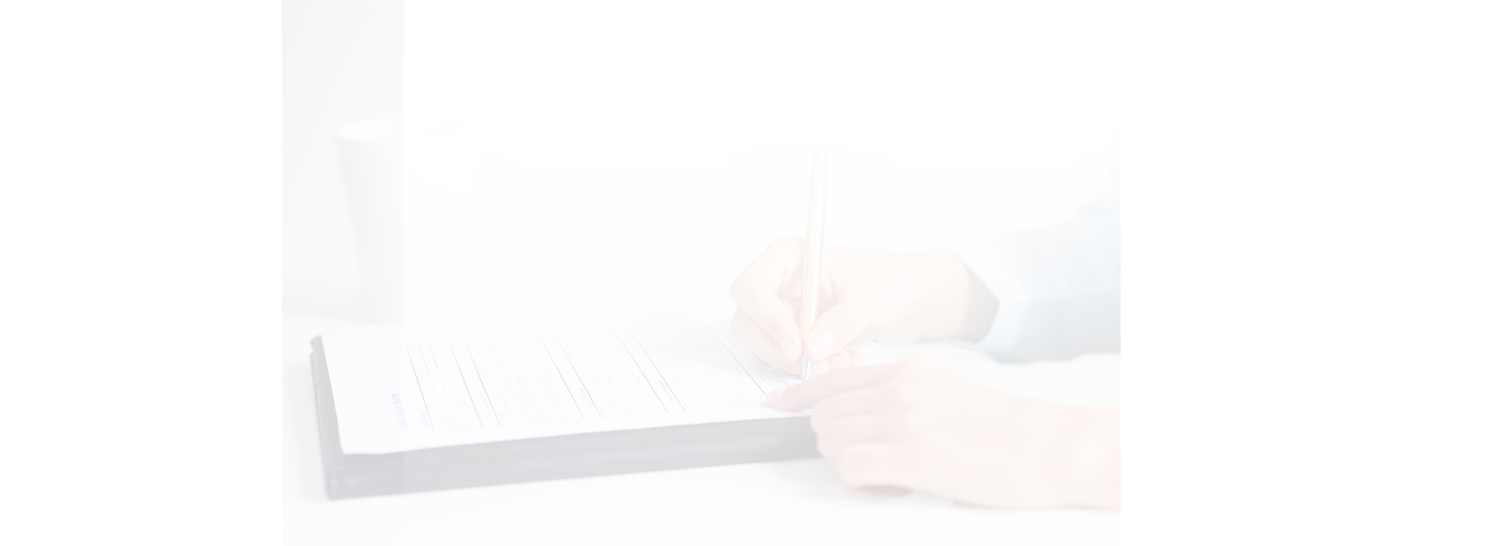
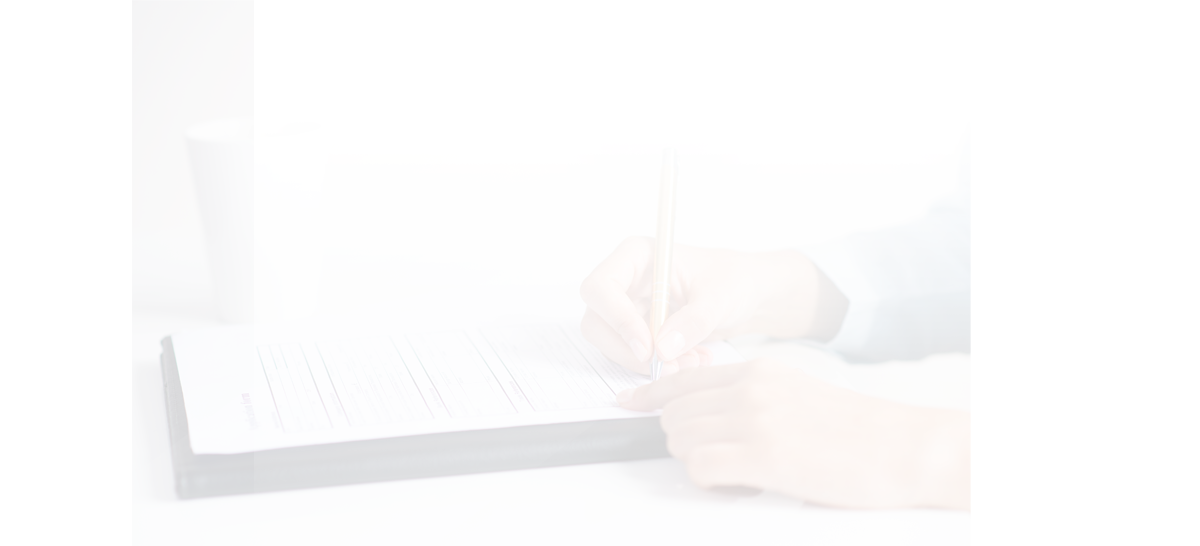
mohamed0507

diff --git a/src/app/login/login.page.scss b/src/app/login/login.page.scss
@@ -1,20 +1,24 @@
-.login-bg{position: absolute;left:0;right:0;top:0;bottom: 0;/* Permalink - use to edit and share this gradient: https://colorzilla.com/gradient-editor/#588ad6+0,4278cb+100 */
-background: rgb(88,138,214);background: -moz-linear-gradient(top,  rgba(88,138,214,1) 0%, rgba(66,120,203,1) 100%); /* FF3.6-15 */
-background: -webkit-linear-gradient(top,  rgba(88,138,214,1) 0%,rgba(66,120,203,1) 100%); /* Chrome10-25,Safari5.1-6 */
-background: linear-gradient(to bottom,  rgba(88,138,214,1) 0%,rgba(66,120,203,1) 100%); /* W3C, IE10+, FF16+, Chrome26+, Opera12+, Safari7+ */
-filter: progid:DXImageTransform.Microsoft.gradient( startColorstr='#588ad6', endColorstr='#4278cb',GradientType=0 ); /* IE6-9 */
-}
-.login-bg::after{content:"";position:absolute;z-index:1;background: url('../../assets/imgs/top-bar.png') no-repeat top center;top:0;bottom:0;left:0;right:0;background-size: auto 50%;}
-.login-bg::before{content:"";position:absolute;z-index:1;background: url('../../assets/imgs/bottom-bar.png') no-repeat bottom center;top:0;bottom:0;left:0;right:0;background-size: auto 50%;
-}
+.login-bg{/*min-height: 100vh; Permalink - use to edit and share this gradient: https://colorzilla.com/gradient-editor/#588ad6+0,4278cb+100
+background: rgb(88,138,214);background: -moz-linear-gradient(top,  rgba(88,138,214,1) 0%, rgba(66,120,203,1) 100%);background: -webkit-linear-gradient(top,  rgba(88,138,214,1) 0%,rgba(66,120,203,1) 100%);
+background: linear-gradient(to bottom,  rgba(88,138,214,1) 0%,rgba(66,120,203,1) 100%);filter: progid:DXImageTransform.Microsoft.gradient( startColorstr='#588ad6', endColorstr='#4278cb',GradientType=0 ) */}
+
+.login-bg{min-height: 100vh;background: #4278cb url('../../assets/imgs/bottom-bg.png') no-repeat bottom center;background-size: 800px auto;}
+.login-bg::after{content:"";position:absolute;z-index:1;background: url(../../assets/imgs/top-bar1.png) no-repeat top -100px center;top: 0;bottom: 0;left: 0;right: 0;background-size: 800px auto;}
+// .login-bg::before{content:"";position:absolute;z-index:1;background: url('../../assets/imgs/bottom-bar.png') no-repeat bottom center;top:0;bottom:0;left:0;right:0;background-size: auto 50%; }
 .login-container {position: relative;padding:5vw;z-index: 2;}
-.logoSection {position: relative;margin: 4px -8px 0;text-align: center;-webkit-animation-duration: 1s;animation-duration: 1s;-webkit-animation-fill-mode: both;animation-fill-mode: both;-webkit-animation-name: zoomIn;animation-name: zoomIn;display: block;
-text-align: center;padding-left: 0;} 
-.logoSection img{display: block;width: 120px;margin: 9vw auto;}
+.logoSection {position: relative;margin: 4px -8px 20px;text-align: center;-webkit-animation-duration: 1s;animation-duration: 1s;-webkit-animation-fill-mode: both;animation-fill-mode: both;-webkit-animation-name: zoomIn;animation-name: zoomIn;display: block;
+text-align: center;padding-top: 200px;} 
+.logoSection img{display: block;width: 120px;margin: 5vw auto;}
 
-
-.sologon-1{color: #5fd8d1;font-size: 1.8rem;display: block;}
-.sologon-2{color: #fff;display: block;font-size: .9rem}
+.powered-by {
+    position: fixed;
+    bottom: 10px;
+    right: 10px;
+    left:10px;
+    font-size: 90%;
+}
+.sologon-1{color: #5fd8d1;font-size: 1.6rem;display: block;}
+.sologon-2{color: #fff;display: block;font-size: .8rem}
 ion-content,app-login{background-color: rgba(66,120,203,1)!important}
 ion-list{background-color: transparent!important}
 ion-item{padding: 0 16px;margin: 16px 0 0 0;border-radius: 8px;background: #fff;}

diff --git a/src/app/vacation-request/new/new-vacation-request.page.html b/src/app/vacation-request/new/new-vacation-request.page.html
@@ -28,22 +28,22 @@
               </ion-select>
             </ion-item>
             <ion-item class="border bg-white">
-                <ion-label position="">{{ 'app.vacationRequest.fromDate' | translate }}</ion-label>
+                <ion-label position="floating">{{ 'app.vacationRequest.fromDate' | translate }}</ion-label>
                 <ion-datetime displayFormat="YYYY-MM-DD" pickerFormat="DD MMMM YYYY" 
                   (ionChange)="getVacationTypeBalance()" formControlName="FromDate"></ion-datetime>
               </ion-item>
               <ion-item class="border bg-white">
-                  <ion-label position="">{{ 'app.vacationRequest.toDate' | translate }}</ion-label>
+                  <ion-label position="floating">{{ 'app.vacationRequest.toDate' | translate }}</ion-label>
                   <ion-datetime displayFormat="YYYY-MM-DD" pickerFormat="DD MMMM YYYY"
                     (ionChange)="getVacationTypeBalance()" formControlName="ToDate"></ion-datetime>
                 </ion-item>
                 <ion-item class="border bg-white">
-                    <ion-label position="">{{ 'app.vacationRequest.excludeWeekend' | translate }}</ion-label>
+                    <ion-label position="floating">{{ 'app.vacationRequest.excludeWeekend' | translate }}</ion-label>
                     <ion-checkbox formControlName="ExcludeWeekend" (ionChange)="calculateVacationDays()" [checked]="false">
                     </ion-checkbox>
                   </ion-item>
                   <ion-item class="border bg-white">
-                      <ion-label position="">{{ 'app.vacationRequest.vacationDays' | translate }}</ion-label>
+                      <ion-label position="floating">{{ 'app.vacationRequest.vacationDays' | translate }}</ion-label>
                       <ion-input type="text" formControlName="VacationDays"></ion-input>
                     </ion-item>
                     <ion-item class="border bg-white">
@@ -51,7 +51,7 @@
                         <ion-input type="text" formControlName="Balance" disabled></ion-input>
                       </ion-item>
                       <ion-item class="border bg-white">
-                          <ion-label position="">{{ 'app.vacationRequest.replacement' | translate }}</ion-label>
+                          <ion-label position="floating">{{ 'app.vacationRequest.replacement' | translate }}</ion-label>
                           <ionic-selectable formControlName="Replacement" itemValueField="EmployeeId" itemTextField="EmployeeName"
                             [items]="employees" [canSearch]="true" (onSearch)="searchEmployee($event)"
                             [placeholder]="'app.vacationRequest.selectReplacement' | translate">
@@ -62,7 +62,7 @@
                           </ionic-selectable>
                         </ion-item>
                         <ion-item class="border bg-white">
-                            <ion-label position="">{{ 'app.overtimeRequest.remarks' | translate }}</ion-label>
+                            <ion-label position="floating">{{ 'app.overtimeRequest.remarks' | translate }}</ion-label>
                             <ion-textarea type="text" formControlName="Remarks"></ion-textarea>
                           </ion-item>
                           <ion-button type="submit" expand="full" [disabled]="requestForm.invalid" class="btn-brand">Submit</ion-button>

diff --git a/src/app/vacation-request/search/search-vacation-requests.page.html b/src/app/vacation-request/search/search-vacation-requests.page.html
@@ -12,25 +12,25 @@
     </ion-toolbar>
 </ion-header>
 
-<ion-content>
+<ion-content class="vacation-requests">
     <ion-card>
         <ion-card-content *ngFor="let req of requests">
-          <ion-item>            
-              {{ 'app.vacationRequest.type' | translate }} : <span>{{req.VacationType.Name}}</span>
+          <ion-item class="vacation-requests-item">            
+            <ion-icon class="vacation-requests-icon" name="apps"></ion-icon>{{ 'app.vacationRequest.type' | translate }} : <span>{{req.VacationType.Name}}</span>
           </ion-item>
-          <ion-item>
-              {{ 'app.vacationRequest.fromDate' | translate }} : <span>{{req.FromDate}}</span>
+          <ion-item class="vacation-requests-item">
+              <ion-icon class="vacation-requests-item" name="calendar"></ion-icon>{{ 'app.vacationRequest.fromDate' | translate }} : <span>{{req.FromDate}}</span>
           </ion-item>      
-          <ion-item>
-              {{ 'app.vacationRequest.toDate' | translate }} : <span>{{req.ToDate}}</span>
+          <ion-item class="vacation-requests-item">
+              <ion-icon class="vacation-requests-item" name="calendar"></ion-icon>{{ 'app.vacationRequest.toDate' | translate }} : <span>{{req.ToDate}}</span>
           </ion-item> 
-          <ion-item>
-              {{ 'app.vacationRequest.vacationDays' | translate }} : <span>{{req.VacationDays}}</span>
+          <ion-item class="vacation-requests-item">
+              <ion-icon class="vacation-requests-item" name="clipboard"></ion-icon>{{ 'app.vacationRequest.vacationDays' | translate }} : <span>{{req.VacationDays}}</span>
           </ion-item>        
-          <ion-item>
+          <ion-item class="vacation-requests-item">
             <button ion-button  color="primary"  icon-start><ion-icon name="create"></ion-icon>Edit</button>
           </ion-item>
         </ion-card-content>
-    </ion-card>
+    </ion-card> 
 
 </ion-content>

diff --git a/src/app/login/login.page.html b/src/app/login/login.page.html
@@ -4,11 +4,11 @@
   </ion-toolbar>
 </ion-header -->
 
-<ion-content padding>
+<ion-content >
   <div class="login-bg">
     <div class="login-container">
       <div class="logoSection">
-        <img class="logo" src="assets/imgs/logo.png" />
+        <!-- <img class="logo" src="assets/imgs/logo.png" /> -->
 
 
         <ion-label class="sologon-1 text-bold">KIAN HRM SYSTEM</ion-label>
@@ -45,17 +45,19 @@
           <div class="error-box"
             *ngIf="authForm.controls['password'].hasError('required') && authForm.controls['password'].touched">
             {{ 'app.login.passwordRequired' | translate }}</div>
-          <ion-item>
+          <!-- <ion-item>
             <ion-label>{{ 'app.login.rememberMe' | translate }}</ion-label>
             <ion-checkbox [formControl]="authForm.controls['keepMeLogin']"></ion-checkbox>
-          </ion-item>
+          </ion-item> -->
 
           <div class="logindiv">
             <button class="btn-brand" type="submit" [disabled]="!authForm.valid" (click)="login()">Login</button>
           </div>
 
         </ion-list>
-        <ion-label class="d-block text-center"><a href="#" class="text-white">Forget Password ?</a></ion-label>
+        <!-- <ion-label class="d-block text-center"><a href="#" class="text-white">Forget Password ?</a></ion-label> -->
+        <ion-label class="powered-by text-center"><a href="#" class="text-white"> Powered By KIAN SOFT </a></ion-label>
+
 
       </form>
     </div>

diff --git a/src/app/app.component.html b/src/app/app.component.html
@@ -3,7 +3,7 @@
 <ion-app>
   <ion-split-pane>
     <ion-menu *ngIf="router.url !== '/login'">
-      <ion-header class="border-0">
+      <ion-header class="border-0 xcx">
         <ion-toolbar>
             <ion-item class="p-3">
                 <ion-avatar slot="start">

diff --git a/src/global.scss b/src/global.scss
@@ -73,4 +73,5 @@ ion-toolbar{
     --ion-background-color:#6191d7;
     --ion-color:#ffffff;
     color:#ffffff!important;
+    --ion-padding:0;
 }

diff --git a/src/app/vacation-request/search/search-vacation-requests.page.scss b/src/app/vacation-request/search/search-vacation-requests.page.scss
@@ -1,0 +1,3 @@
+.vacation-requests-item{color: #3e3e3e;}
+.vacation-requests-icon{color: #6191d7;}
+.vacation-requests-item span{color: #6191d7}

diff --git a/src/app/app.scss b/src/app/app.scss
@@ -330,3 +330,4 @@ bottom: -2px;
 .mt50 {
 margin-top: 50px;
 }
+.xcx{background: #f00!important}
